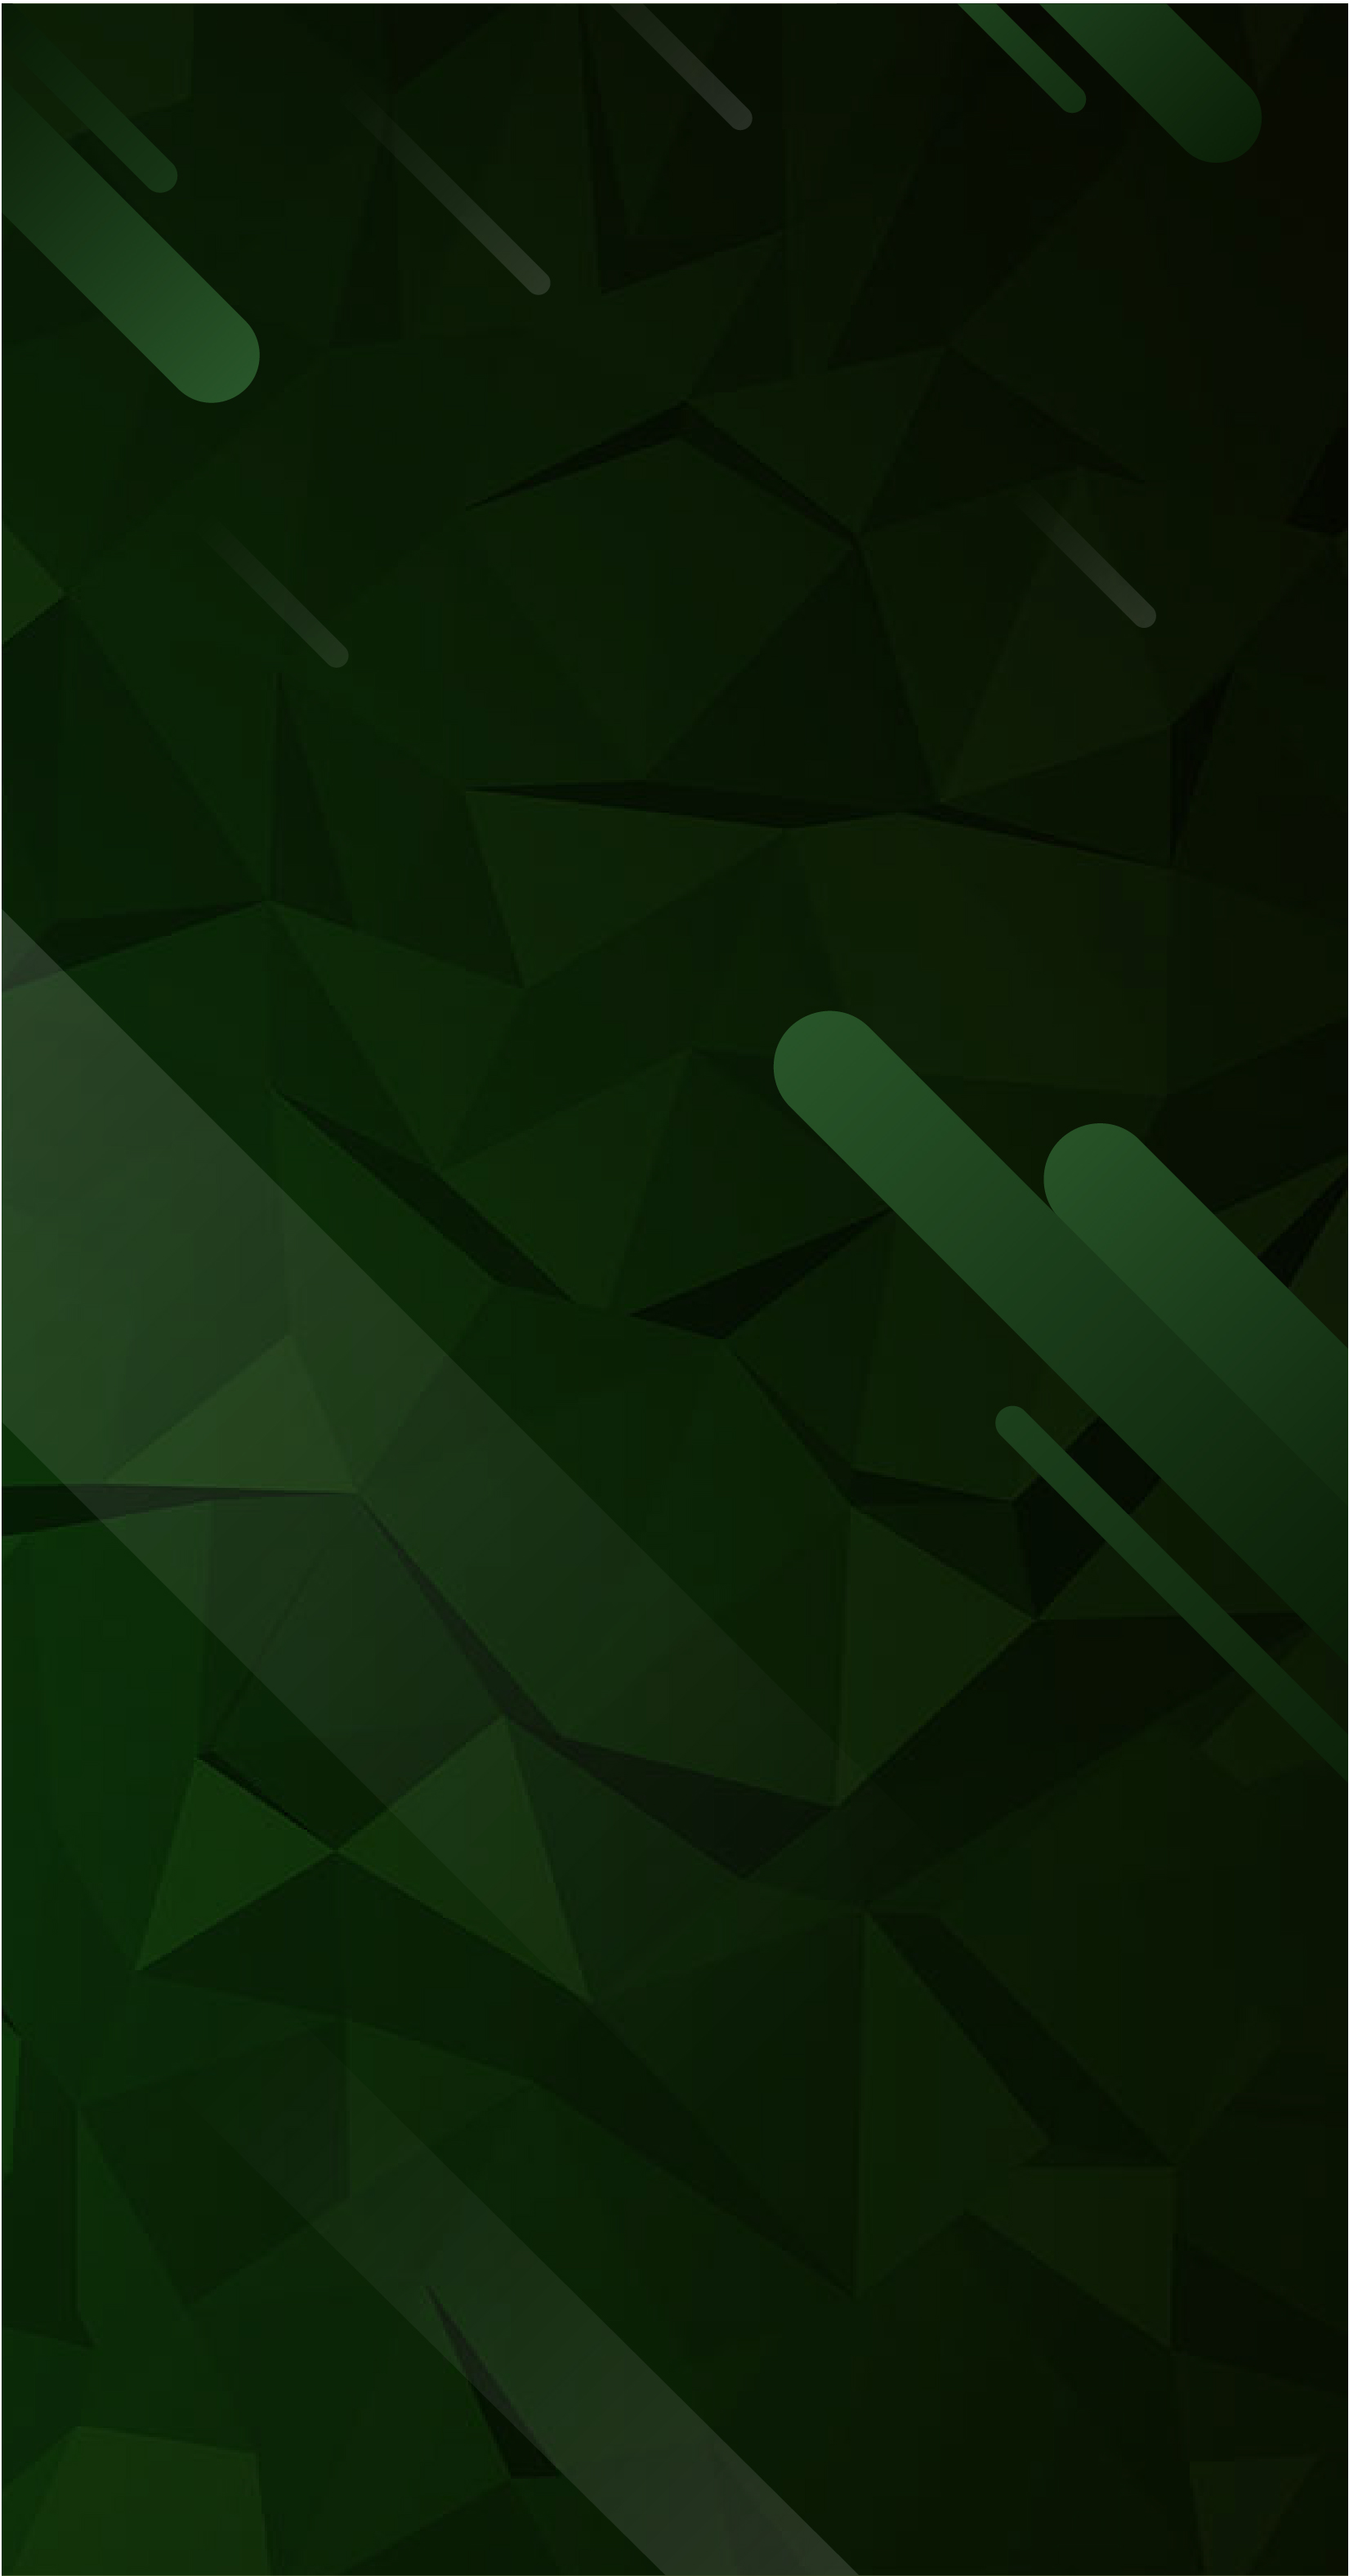
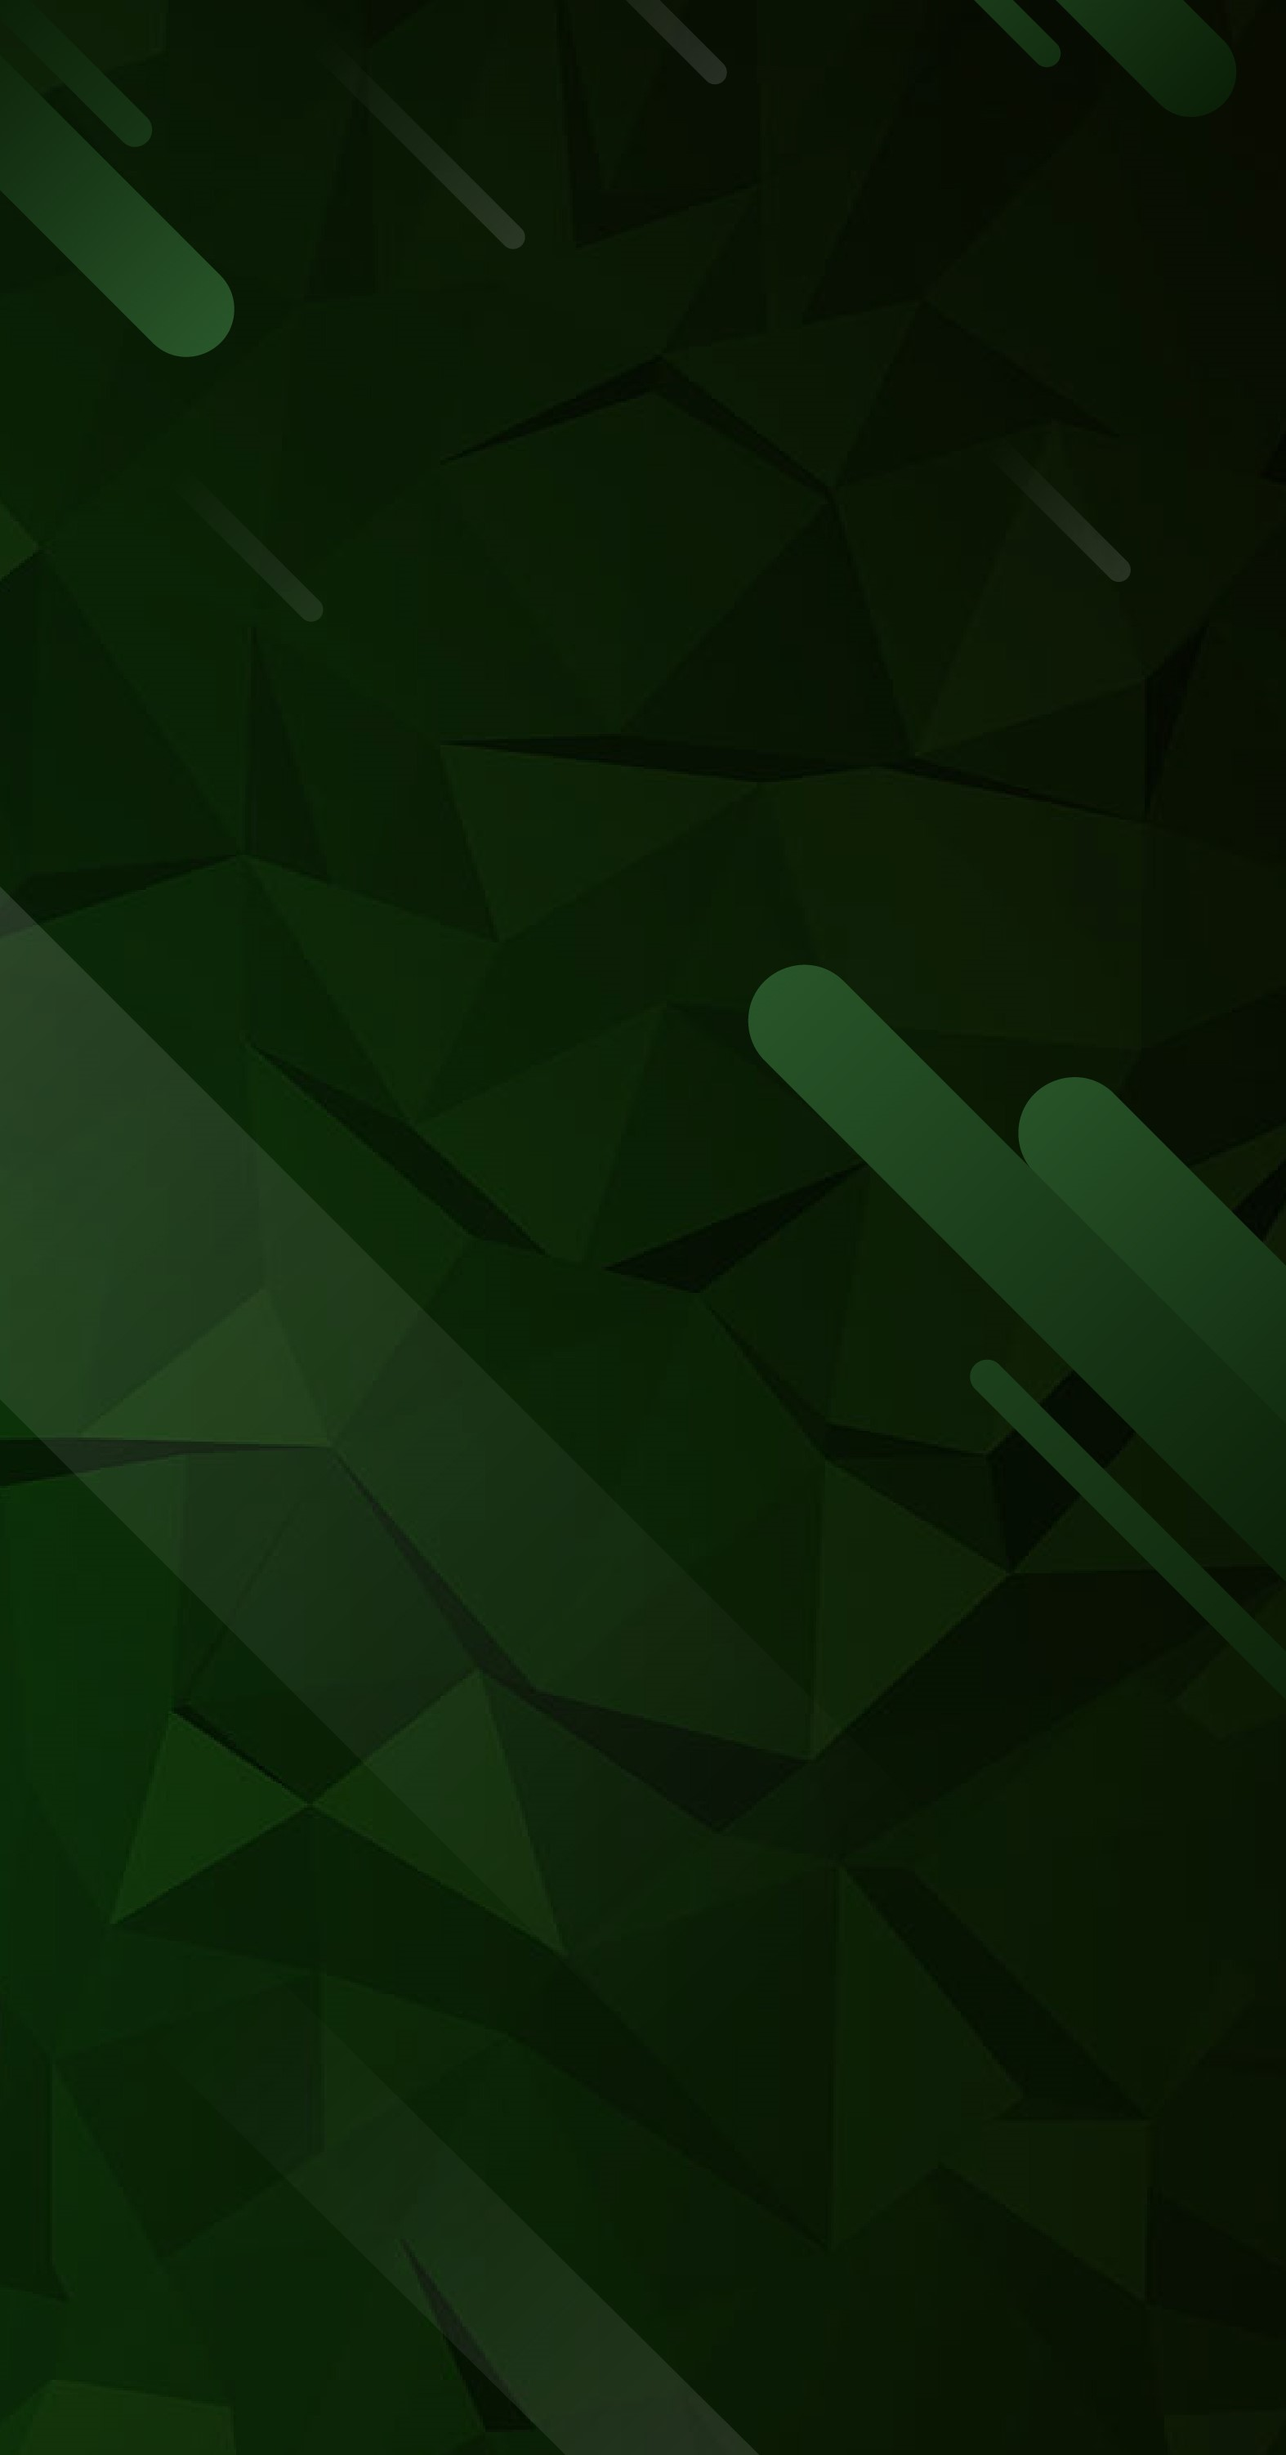
about

diff --git a/about.html b/about.html
@@ -46,10 +46,10 @@
             </div>
         </nav>
         <div class="container text-about">
-            <img src="img/mobile-2.jpg" style="width: 100%;" alt="">
+            <!-- <img src="img/img-about.jpg" style="width: 100%;" alt=""> -->
             <div class="row">
                 <div class="col-lg-6 col-md-12 text-center">
-                    <label class="title2" style="font-size: 20px;">A PROPOS</label>
+                    <label class="title2" style="font-size: 20px;margin-top: 20px;">A PROPOS</label>
                 </div>
             </div>
             <div class="row" style="margin-top: 20px;">

diff --git a/css/custom.css b/css/custom.css
@@ -186,10 +186,14 @@ label {
     background-image: url(../img/mobile-1.jpg);
   }
   .con-about {
-    background-image: url(../img/mobile-3.jpg);
+    background-image: url(../img/mobile-2.jpg);
+    background-position: 0 0;
+    background-repeat: no-repeat;
+    background-size: 100%;
   }
   .text-about {
-    /* margin-top: 15rem; */
+    background-image: url(../img/mobile-3.jpg);
+    margin-top: 15rem;
   }
   .home-description {
     margin-top: 40px;
